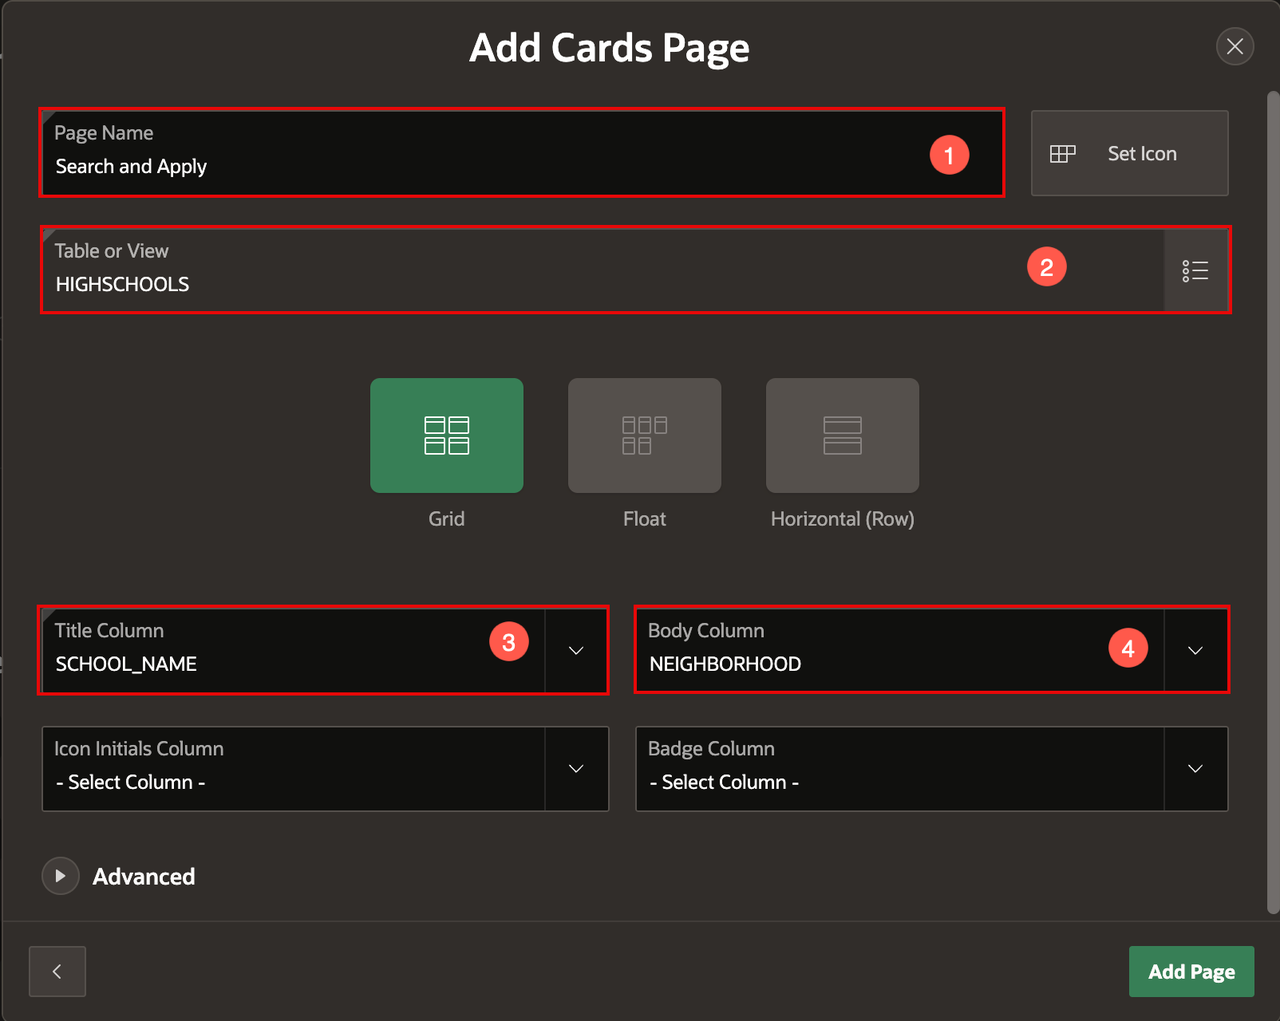
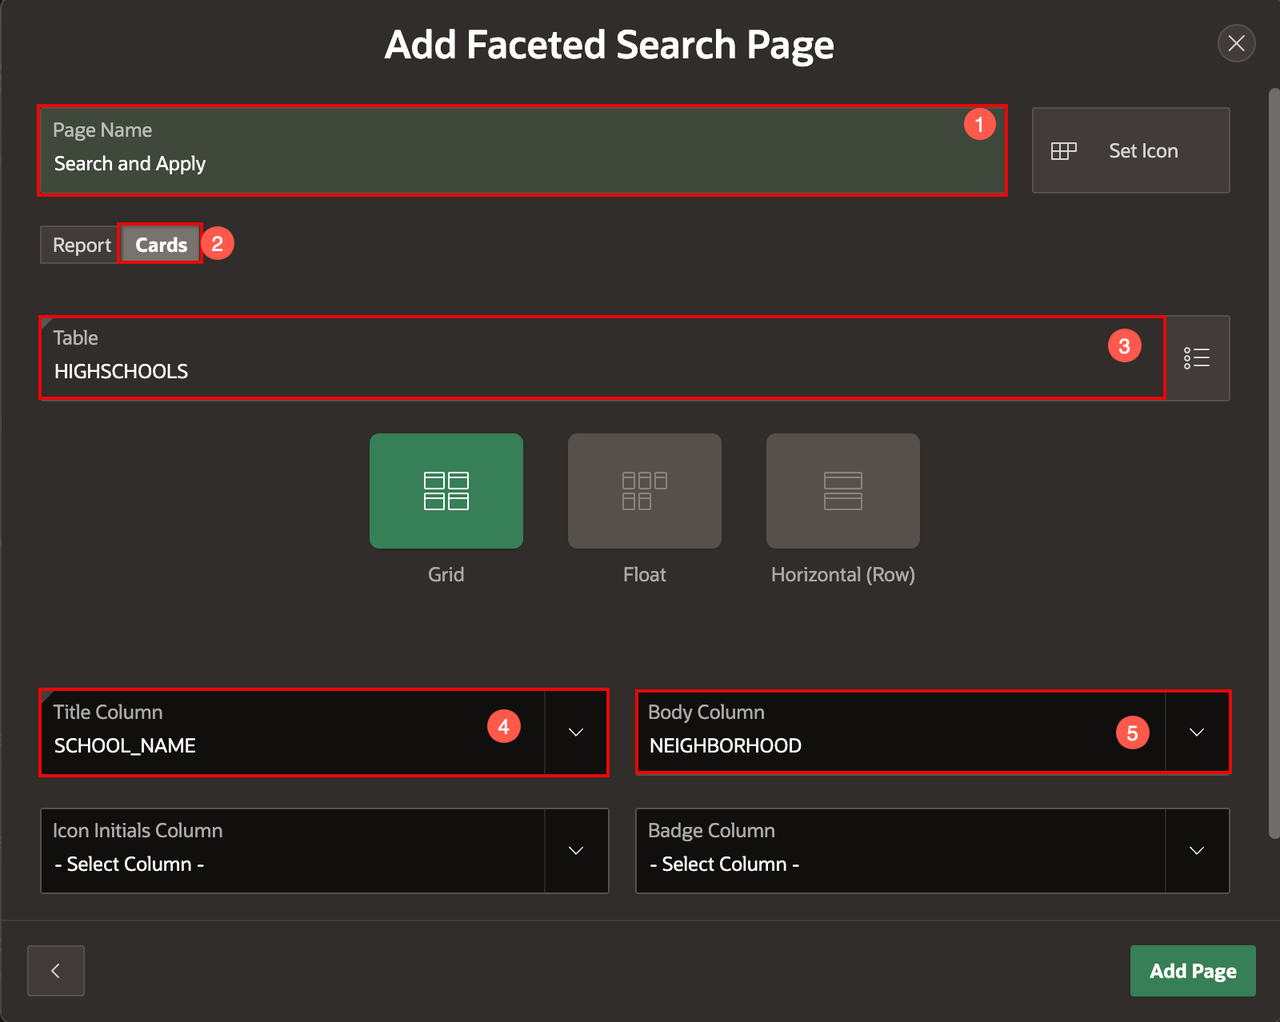
wms 11628: Added quiz and fixed typos (#317)
* 23.1 changes

* updated acknowledgements

* Archive of 22.1

* Updated Movies and common

* Updated APEX version in Intro

* Feedback fixes

* Grammar edits

* Sign up for APEX using Quickstart

* Updated Lab 10

Added missing steps to get device location

* Added the support lab

Added CloudWorld support labs for Movies Watchlist and Social Media Workshop

* Updated Getting Started Common Lab

Changed the steps to sign up for an APEX Service

* Updated missing steps

* Changed the title of Spreadsheet workshop

* Embedded walkthrough videos

Social Media Workshop

* Grammar edits

* Updated Need Help for OCW

* Update 4-Update-table.md

* Rename 4-Update-table.md to 4-update-table.md

* Delete task-definition.md

* Update 4-update-table.md

* Fixing bugs

* Added video walkthrough files

* Update intro.md

* Update manifest.json

* Updated screenshots in Common

* APEX 23.2 updates to Spreadsheet

Updates to Spreadsheet and Common Lab

* Naming issues fixed

* Update 1-sign-up-apex.md

* Fixed naming, prereq, obj

* Naming issues fixed

* Issue fixes in common lab

* Changes in common and delete unwanted files

* Removed duplicate folders

* Updated all labs to 23.2

* Fixed the Manifest file errors

* Updated steps and text related to a bug

* New Lab added

* Update 5-improve-ux.md

* Update manifest.json

* Update 5-improve-ux.md

* fixed issues for new lab

* Update introduction.md

* Updated to latest files

* renamed the images

* Fixed issues and feedback
[…]

diff --git a/nyc-genai-lab/1-create-app/1-create-app.md b/nyc-genai-lab/1-create-app/1-create-app.md
@@ -38,6 +38,8 @@ In this lab, you will:
 
     When creating an application from a file, APEX allows you to upload CSV, XLSX, XML, or JSON files and then build apps based on their data. Alternatively, you can also copy and paste CSV data or load sample data.
 
+3. Download the [nyc\_high\_schools.xlsx](files/nyc_high_schools.xlsx?download=1) file to your local machine.
+
 4. Within the Load Data wizard, click the **Choose File** option or drag and drop the [nyc\_high\_schools.xlsx](files/nyc_high_schools.xlsx?download=1) file on to the dialog window.
 
     ![Image showing a wizard to upload a file](images/drag-and-drop.png " ")
@@ -50,7 +52,7 @@ In this lab, you will:
 
 6. In the Load Data dialog, verify that 427 rows have been loaded into the **HIGHSCHOOLS** table, then close the dialog.
 
-    *Note*: We will not be creating the application from this step since ORacle APEX creates multiple pages which are not required for the purpose of this workshop. 
+    *Note*: We will not be creating the application from this step since Oracle APEX creates multiple pages which are not required for the purpose of this workshop. 
 
     The Data Load wizard has created a new table called **HIGHSCHOOLS** and populated the table with the records from the sample data. Now, you can create an app based on this new table.
 
@@ -71,7 +73,9 @@ In this lab, you will:
 3. On the Create Application page, for **Name**, enter **Highschools**. Click the application icon.
     ![Image showing the Create Application Page](images/app-thumbnail.png " ")
 
-3. In the Choose Application Icon wizard, upload your own icon by selecting or dragging and dropping an image. Download a sample icon from [here](images/ai-highschools.png).
+3. In the Choose Application Icon wizard, upload your own icon by selecting or dragging and dropping an image. 
+
+    Download a sample icon from [here](images/ai-highschools.png).
     ![Image showing the Choose Application Icon wizard](images/upload-icon.png " ")
 
 4. Once you select an image, the wizard allows you to crop or resize the image. Click **Save Icon**.
@@ -85,6 +89,7 @@ In this lab, you will:
 
 7. In the Add Cards Page qizard, enter/select the following:
     - Page Name: **Search and Apply**
+    - Switch to **Cards** tab.
     - Table or View: **HIGHSCHOOLS**
 
     For the Cards properties, select the following:
@@ -96,7 +101,7 @@ In this lab, you will:
     - Expand Advanced section and check the **Set as Home Page** box
 
     Click **Add Page**.
-    ![Edit Page wizard](images/cards-columns.png " ")
+    ![Edit Page wizard](images/add-faceted-page.png " ")
 
 7. Next, we delete the page that we no longer need. Click **Edit** next to the Home page.
     ![Edit Page wizard](images/edit-home.png " ")
@@ -283,7 +288,6 @@ In this task, we configure the Cards region to display the information that we n
     
     You have successfully customized the application theme.
 
-
 ## Summary
 
 You now know how to create an Oracle APEX application from a spreadsheet. You also learnt to customize the pages and the theme of the application.
@@ -292,8 +296,8 @@ You may now **proceed to the next lab**.
 
 ## Acknowledgements
 
- - **Authors** - Toufiq Mohammed, Principal Product Manager; Apoorva Srinivas, Principal Product Manager
+ - **Authors** - Apoorva Srinivas, Principal Product Manager; Toufiq Mohammed, Principal Product Manager; 
  - **Contributing Author** - Pankaj Goyal, Member Technical Staff
- - **Last Updated By/Date** - Apoorva Srinivas, Senior Product Manager, February 2026
+ - **Last Updated By/Date** - Apoorva Srinivas, Principal Product Manager, March 2026
 
 

diff --git a/nyc-genai-lab/0-intro/0-intro.md b/nyc-genai-lab/0-intro/0-intro.md
@@ -23,7 +23,7 @@ Here is a quick overview of the app you will be building:
 
 Estimated Time: 60 minutes
 
-### **Objectives**
+### Objectives
 
 * Implement **Faceted Search for Cards** and **Map Regions** to filter and search for the best school.
 * Build a conversational chatbot to ask questions about a school using the **Generative AI** features of Oracle APEX such as **AI configurations, RAG sources** and **Show AI Assistant Dynamic Actions**.
@@ -84,13 +84,14 @@ Total estimated time: 60 minutes
 
 If the menu is not displayed, you can open by clicking the menu button (![Menu icon](./images/menu-button.png)) at the upper-left corner of the page.
 
+
 ## Downloads
 
 If you are stuck or the app is not working as expected, you can download and install one of the the completed app as follows:
 
 - **OPTION 1:** [Click here](https://c4u04.objectstorage.us-ashburn-1.oci.customer-oci.com/p/EcTjWk2IuZPZeNnD_fYMcgUhdNDIDA6rt9gaFj_WZMiL7VvxPBNMY60837hu5hga/n/c4u04/b/livelabsfiles/o/labfiles%2Fnyc-gen-ai-app.zip) to download the completed application zip file until Lab 6. Note: This application export does not include the vector search covered in **Optional Lab 7**. To run the app, follow the steps described in the [Appendix Lab: Download Instructions](?lab=8-appendix) from Task 1 and Task 2.
 
-- **OPTION 2:** [Click here](https://c4u04.objectstorage.us-ashburn-1.oci.customer-oci.com/p/EcTjWk2IuZPZeNnD_fYMcgUhdNDIDA6rt9gaFj_WZMiL7VvxPBNMY60837hu5hga/n/c4u04/b/livelabsfiles/o/labfiles%2Fnyc-gen-ai-vector-search.zip) to download the completed application zip file until Lab 7. Note: This application export includes the vector search covered in **Optional Lab 7**. To run this app, follow the steps described in the [Appendix Lab: Download Instructions](?lab=8-appendix) from Task 1 till Task 3. Note: This app requires Oracle Database 23ai and Oracle APEX 24.2.
+- **OPTION 2:** [Click here](https://c4u04.objectstorage.us-ashburn-1.oci.customer-oci.com/p/EcTjWk2IuZPZeNnD_fYMcgUhdNDIDA6rt9gaFj_WZMiL7VvxPBNMY60837hu5hga/n/c4u04/b/livelabsfiles/o/labfiles%2Fnyc-gen-ai-vector-search.zip) to download the completed application zip file until Lab 7. Note: This application export includes the vector search covered in **Optional Lab 7**. To run this app, follow the steps described in the [Appendix Lab: Download Instructions](?lab=8-appendix) from Task 1 till Task 3. Note: This app requires Oracle Database 26ai and Oracle APEX 24.2.
 
 
 ## Learn More - *Useful Links*
@@ -103,6 +104,5 @@ If you are stuck or the app is not working as expected, you can download and ins
 - [External Site + Slack](http://apex.world)
 
 ## Acknowledgements
-
- - **Authors** - Toufiq Mohammed, Senior Product Manager; Apoorva Srinivas, Senior Product Manager
- - **Last Updated By/Date** - Apoorva Srinivas, Senior Product Manager, February 2025
+ - **Authors** - Apoorva Srinivas, Principal Product Manager; Toufiq Mohammed, Principal Product Manager
+ - **Last Updated By/Date** - Apoorva Srinivas, Principal Product Manager, March 2026

diff --git a/nyc-genai-lab/8-quiz/8-quiz.md b/nyc-genai-lab/8-quiz/8-quiz.md
@@ -1,0 +1,65 @@
+# Take the Quiz
+```quiz-config
+  passing: 80
+  badge: images/badge.png
+```
+## Introduction
+
+This section contains a short quiz to test your understanding of the lab. Get a score of 80 to pass the quiz and earn a badge. Don't forget to share it on Social Media!
+
+Estimated Time: 5 minutes
+
+## Objectives
+- Test your understanding of APEX concepts used in this workshop
+
+## Quiz
+
+```quiz score
+Q: Which APEX component is used to display information in small visual blocks?
+- Interactive Report
+* Cards
+- Form
+- Calendar
+
+Q: Which APEX region type is used to display school locations visually as points on a geographical layout?
+- Interactive Grid
+- Classic Report
+* Map
+- Faceted Search
+
+Q: To use the native Generative AI features in APEX, what must be configured first?
+- An APEX workspace
+- An API key from the OCI Console
+- An APEX application
+* A Generative AI service in APEX
+
+Q: When configuring a Generative AI service, what action should be taken after entering the details to ensure the Generative AI service configuration is correct?
+* Test Connection
+- Save and Run
+- Save and close the App Builder
+- Refresh the browser
+
+Q: What APEX component is used to allow a user to ask questions about a school in a chat and receive context-sensitive answers from Generative AI?
+- Blank Page
+- APEX Assistant
+* Show AI Assistant Dynamic Action
+- AI Attributes
+
+Q: Which component can be configured in AI Configuration to enrich the AI conversation with data specific to the application?
+- System Prompt
+* Retrieval-Augmented Generation (RAG) Sources
+- Welcome message
+- Source
+
+Q: What provider type is selected when creating a Vector Provider for the ONNX model in APEX?
+* Database ONNX Model Check
+- External API
+- Cloud Vector Service
+- Local File System
+
+```
+
+## Acknowledgements
+
+ - **Authors** - Apoorva Srinivas, Principal Product Manager; Karina Pastor, Principal Product Manager
+ - **Last Updated By/Date** - Apoorva Srinivas, Principal Product Manager, March 2026

diff --git a/nyc-genai-lab/7-vector-search/7-vector-search.md b/nyc-genai-lab/7-vector-search/7-vector-search.md
@@ -13,7 +13,7 @@ Watch the video below for a quick walk-through of the lab.
 
 ### Prerequisites
 
-- To run this lab, you should configure an APEX workspace on an **Oracle Database 23ai** instance.
+- To run this lab, you should configure an APEX workspace on an **Oracle Database 26ai** instance.
 
 ### Objectives
 
@@ -324,8 +324,7 @@ In this task, we update the RAG source to use the vector we created. The Learn M
 
 You now know how to implement Vector Search in your APEX app. You understood how vectors can be used in AI configurations to optimize RAG implementations by reducing the content sent to large language models, thereby saving costs without compromising on the accuracy of responses.
 
-## Acknowledgments
-
- - **Authors** - Toufiq Mohammed, Senior Product Manager; Apoorva Srinivas, Senior Product Manager
- - **Last Updated By/Date** - Apoorva Srinivas, Senior Product Manager, February 2025
+## Acknowledgements
+ - **Authors** - Apoorva Srinivas, Principal Product Manager; Toufiq Mohammed, Principal Product Manager
+ - **Last Updated By/Date** - Apoorva Srinivas, Principal Product Manager, March 2026
 

diff --git a/nyc-genai-lab/6-run-app/6-run-app.md b/nyc-genai-lab/6-run-app/6-run-app.md
@@ -78,15 +78,16 @@ In this lab, you will:
 
     Be thrilled to learn more about NYC Highschools by asking questions and receiving a response from Generative AI!
 
+
 ## Summary
 
 You now know how to run the app and explore the Gen AI features of the app.
 
-## Acknowledgments
+## Acknowledgements
 
- - **Authors** - Toufiq Mohammed, Senior Product Manager; Apoorva Srinivas, Senior Product Manager
+ - **Authors** - Toufiq Mohammed, Principal Product Manager; Apoorva Srinivas, Principal Product Manager
  - **Contributing Author** - Pankaj Goyal, Member Technical Staff
- - **Last Updated By/Date** - Apoorva Srinivas, Senior Product Manager, February 2025
+ - **Last Updated By/Date** - Apoorva Srinivas, Principal Product Manager, March 2026
 
 
 

diff --git a/nyc-genai-lab/4-using-genai/4-using-genai.md b/nyc-genai-lab/4-using-genai/4-using-genai.md
@@ -313,8 +313,8 @@ You now know how to create AI configurations with RAG sources in APEX. You also 
 
 You may now **proceed to the next lab**.
 
-## Acknowledgments
+## Acknowledgements
 
- - **Authors** - Toufiq Mohammed, Senior Product Manager; Apoorva Srinivas, Senior Product Manager
+  - **Authors** - Apoorva Srinivas, Principal Product Manager; Toufiq Mohammed, Principal Product Manager 
  - **Contributing Author** - Pankaj Goyal, Member Technical Staff
- - **Last Updated By/Date** - Apoorva Srinivas, Senior Product Manager, February 2025
+ - **Last Updated By/Date** - Apoorva Srinivas, Principal Product Manager, March 2026

diff --git a/nyc-genai-lab/5-apply-to-school/5-apply-to-school.md b/nyc-genai-lab/5-apply-to-school/5-apply-to-school.md
@@ -411,7 +411,7 @@ You may now **proceed to the next lab**.
 
 ## Acknowledgements
 
- - **Authors** - Toufiq Mohammed, Principal Product Manager; Apoorva Srinivas, Principal Product Manager
+ - **Authors** - Apoorva Srinivas, Principal Product Manager; Toufiq Mohammed, Principal Product Manager 
  - **Contributing Author** - Pankaj Goyal, Member Technical Staff
- - **Last Updated By/Date** - Apoorva Srinivas, Principal Product Manager, February 2026
+ - **Last Updated By/Date** - Apoorva Srinivas, Principal Product Manager, March 2026
 

diff --git a/nyc-genai-lab/2-schools-on-map/2-schools-on-map.md b/nyc-genai-lab/2-schools-on-map/2-schools-on-map.md
@@ -407,6 +407,6 @@ You may now **proceed to the next lab**.
 
 ## Acknowledgments
 
- - **Authors** - Toufiq Mohammed, Senior Product Manager; Apoorva Srinivas, Senior Product Manager
+ - **Authors** - Apoorva Srinivas, Principal Product Manager; Toufiq Mohammed, Principal Product Manager; 
  - **Contributing Author** - Pankaj Goyal, Member Technical Staff
- - **Last Updated By/Date** - Apoorva Srinivas, Senior Product Manager, February 2025
+ - **Last Updated By/Date** - Apoorva Srinivas, Principal Product Manager, March 2026

diff --git a/nyc-genai-lab/3-configure-oci/3-configure-oci.md b/nyc-genai-lab/3-configure-oci/3-configure-oci.md
@@ -201,6 +201,6 @@ You may now **proceed to the next lab**.
 
 
 
-## Acknowledgments
-- **Author** - Apoorva Srinivas, Senior Product Manager
-- **Last Updated By/Date** - Apoorva Srinivas, Senior Product Manager, February 2025
+## Acknowledgements
+- **Author** - Apoorva Srinivas, Principal Product Manager
+- **Last Updated By/Date** - Apoorva Srinivas, Principal Product Manager, March 2026
